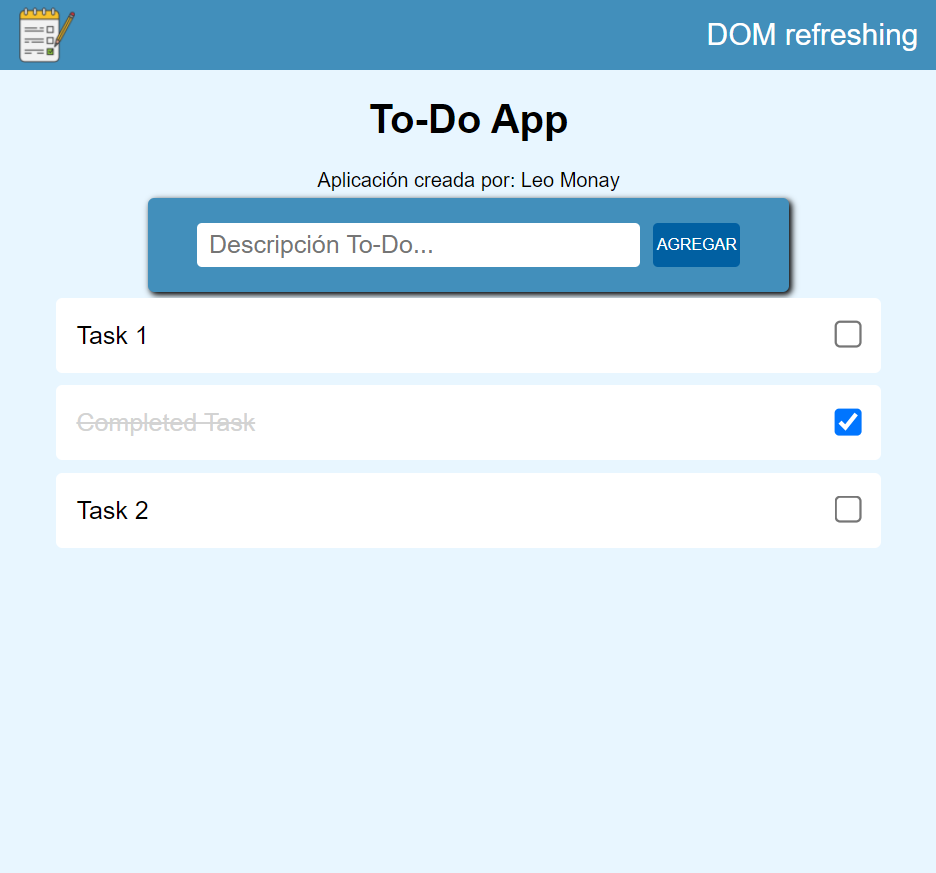
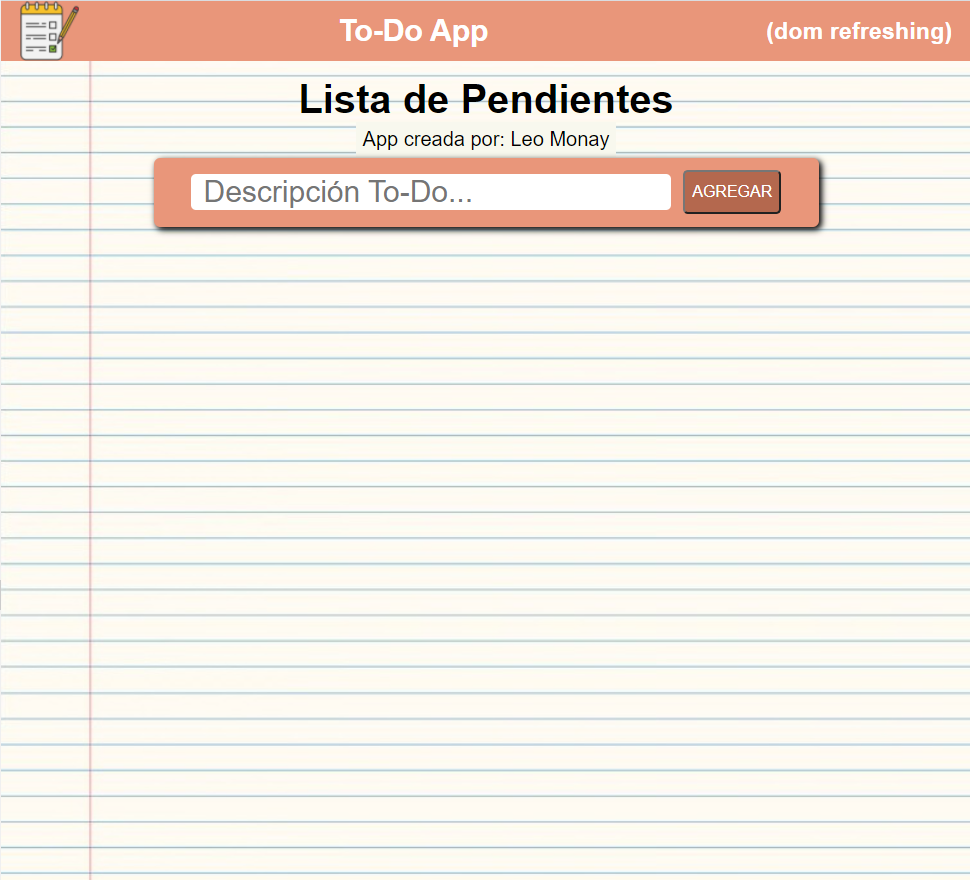
media query fixed

diff --git a/assets/style.css b/assets/style.css
@@ -1,12 +1,16 @@
 body {
   background-color: beige;
   background-image: url(./hojaRayada.jpg);
-  background-size: 100%;
+  background-size: cover;
   font-family: "Helvetica Neue",Helvetica,Arial,sans-serif;
   margin-top: 56px;
   display: flex;
   flex-direction: column;
   align-items: center;
+}
+
+h1{
+  margin:5px;
 }
 
 #header {
@@ -15,13 +19,13 @@ body {
   top: 0;
   left: 0;
   background-color:darksalmon;
-  height: 56px;
+  height: 3em;
   display: flex;
   justify-content:space-between;
   align-items: center;
 }
 .barIcon{
-  height: 45px;
+  height: 100%;
   margin-left: 15px;
 }
 #createdBy{
@@ -29,8 +33,7 @@ body {
   padding: 5px;
 }
 
-#header span {
-  font-size: 24px;
+#header h3, #header h2 {
   color: white;
   padding-right: 15px;
   font-weight: bold;
@@ -54,7 +57,8 @@ body {
 #inputContainer {
   display: flex;
   justify-content: center;
-  padding: 10px;
+  align-items: center;
+  /* padding: 10px; */
   margin: 10px;
   width: 100%;
 }
@@ -63,7 +67,7 @@ body {
   outline: none;
   width: 75%;
   padding-left: 10px;
-  font-size: 20px;
+  font-size: 1.5em;
   border: none;
   border-radius: 4px;
 }
@@ -79,7 +83,7 @@ body {
   height: 35px;
   background:rgb(180, 104, 78);
   color: #FFF;
-  font-size: .8rem;
+  font-size: .8em;
   padding: 0px 5px;  
 }
 
@@ -102,32 +106,14 @@ body {
   background: #fff;
   margin-bottom: 10px;
   border-radius: 5px;
-  /* border: .1em solid rgb(115, 184, 211); */
   box-shadow: 2px 2px 2px 1px rgba(0, 0, 0, 0.2);
-  font-size: 20px;
+  font-size: 1.3em;
   padding: 5px;
-}
-.deleteButton{
-  width: 30px;
-  height: 30px;
-  border-radius: 50%;
-  cursor: pointer;
-  outline: none;
-  transition: 0.2s all;
-  background: url('./deleteIcon.png');
-  background-size:contain;
-  background-color: rgb(167, 0, 0);
-}
-
-:active {
-  transform: scale(0.98);
-  /* Scaling button to 0.98 to its original size */
-  box-shadow: 3px 2px 22px 1px rgba(0, 0, 0, 0.24);
-  /* Lowering the shadow */
 }
 
 .toDoShell span {
   width: 90%;
+  word-wrap: break-word
 }
 .completeText {
   color: lightgrey;
@@ -135,40 +121,48 @@ body {
 }
 
 .completeCheckbox {
-  transform: scale(1.8);
+  transform: scale(2.5);
+  margin: 0px 1.5em
 }
+.deleteButton{
+  width: 2.5em;
+  height: 2.5em;
+  border-radius: 50%;
+  cursor: pointer;
+  transition: 0.2s all;
+  background: url('./deleteIcon.png');
+  background-size:contain;
+  background-color: rgb(167, 0, 0);
+}
+
+.labelCheck:hover input ~ .checkMark {
+  background-color: lightgreen;
+}
+
 .completeCheckbox:checked{
   background-color: green;
 }
 @media (max-width: 769px) {
+  #Header{
+    height: 3em;
+  }
+
   #container {
     width: 100vw;
     max-width: 100vw;
   }
-  #inputContainer {
-    margin: 0px;
-  }
   #toDoInput {
     width: 80%;
-    font-size: 2em;
   }
   #addButton {
-    height: 50px;
+    height: 2.5em;
   }
   .toDoShell{
     width: 95vw;
   }
-  .completeCheckbox{
-    height: 1.5em;
-    width: 1.5em;
-    margin: 0px 10px 0px 0px;
-  }
+
   .toDoShell span {
     width: 85%;
-    font-size: 1.75em;
   }
-  .deleteButton{
-    width: 3em;
-    height: 3em;
-  }
+
 }

diff --git a/toDoList.js b/toDoList.js
@@ -37,12 +37,22 @@ function buildToDo(todo,index) {
   // se asigna el index pasado como argumento como el id.
   toDoText.id = index;
 
+  //to make a customizable checkbock (later)
+    // var labelCheck = document.createElement('labelCheck');
+    // labelCheck.className = 'labelCheck';
+    // labelCheck.id = toDoText.id;
+    
     var check = document.createElement('INPUT');
     check.setAttribute("type","checkbox");
     check.id = toDoText.id;
     console.log('check.id: '+check.id)
     check.addEventListener("click", completeToDo);
     check.className='completeCheckbox';
+
+    // var checkMark = document.createElement('span');
+    // checkMark.className = 'checkMark';
+    // checkMark.id = toDoText.id;
+    // checkMark.innerHTML = '&#10003'
 
 
   todo.index=index
@@ -64,9 +74,14 @@ function buildToDo(todo,index) {
   }
 
   //Se asigna toDoText y el check como hijo de toDoShell
+  // labelCheck.appendChild(check);
+  // labelCheck.appendChild(checkMark);
+
   toDoShell.appendChild(toDoText);
+
   toDoShell.appendChild(check);
-  toDoShell.appendChild(deleteButton)
+  
+  toDoShell.appendChild(deleteButton);
 
   return toDoShell;
 }

diff --git a/index.html b/index.html
@@ -10,15 +10,15 @@
     <body>
         <div id="header">
             <img class="barIcon" src="./assets/todo.png" />
-            <span>DOM refreshing</span>
+            <h2>To-Do App</h2>
+            <h3>(dom refreshing)</h3>
         </div>
-        <h1>To-Do App</h1>
-        <div><span id="createdBy">Aplicación creada por:</span></div>
+        <h1>Lista de Pendientes</h1>
+        <div><span id="createdBy">App creada por:</span></div>
         <div id="container">
             <div id="inputContainer">
                 <input type="text" id="toDoInput" placeholder="Descripción To-Do..."/>
                 <button id="addButton" accesskey=”1″><span>AGREGAR</span></button>
-                <!-- <div id="addButton"><span>AGREGAR</span></div> -->
             </div>
         </div>
         <div id="toDoContainer"></div>
